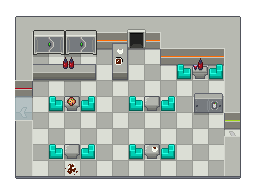
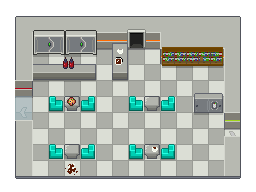
Added updateObjects() method

Changed region(s): [[0.625, 0.2188, 0.875, 0.4375]]

diff --git a/OverworldMap.js b/OverworldMap.js
@@ -147,7 +147,6 @@ window.OverworldMaps = {
         direction: "down",
         src: "/images/characters/people/gameObjects.png",
         shadowImg: "images/characters/noshadow.png",
-        hide: true,
         talking: [
           {
             required: ["Q7_INTRO"],
@@ -182,7 +181,6 @@ window.OverworldMaps = {
         direction: "right",
         src: "/images/characters/people/gameObjects.png",
         shadowImg: "images/characters/noshadow.png",
-        hide: false,
         talking: [
           {
             required: ["Q7_INTRO"],
@@ -197,41 +195,7 @@ window.OverworldMaps = {
             ]
           }
         ]
-      },
-      testNPC: {
-        type: "Person",
-        x: utils.withGrid(8),
-        y: utils.withGrid(4),
-        direction: "down",
-        src: "/images/characters/people/npc8.png",
-        shadowImg: "images/characters/shadow.png",
-        talking: [
-          {
-            events: [
-              { type: "textMessage", name: "Test", text: "This is a test."},
-              { 
-                type: "updateObject", 
-                update: {
-                  id: "controlsRight",
-                  spriteSrc: "/images/characters/people/npc8.png",
-                }
-              },
-              /*Aufgabe-7:
-
-              { type: "openModal", fileRef: "questionModal", modalRef: "q7"},
-              Graph interpolieren --> Punkte sind gegeben, muss zusätzlich einige Eigenschaften aufweisen!
-
-              On complete:
-
-              Berg entfernen? 
-              Set-Timer -3min
-              Dismount spirte
-              { type: "textMessage", name: this.playerName, text: "Oh nein, das war der falsche Berg!" },
-              */
-            ]
-          }
-        ]
-      },
+      }
     },
     cutsceneSpaces: {
       [utils.asGridCoord(6,10)]: [{

diff --git a/ui/QuestionModals.js b/ui/QuestionModals.js
@@ -47,12 +47,26 @@ class QuestionModals {
         </div>
       `)
     }
-
     
-    
-
     //Question 2
     else if (this.modalRef === "q2") {
+      /*this.mapElement = document.createElement('div');
+      this.mapElement.classList.add('Modal');
+      this.mapElement.setAttribute('id', 'map-modal')
+      this.mapElement.innerHTML = (`
+        <div class="ModalHeader">
+          <div class="Title">
+            Map Modal
+          </div>
+        </div>
+        <div class="ModalContent">
+          <img src=${this.minimapSrc}>
+        </div>
+      `);*/
+    }
+
+    //Question 3
+    else if (this.modalRef === "q3") {
       /*this.mapElement = document.createElement('div');
       this.mapElement.classList.add('Modal');
       this.mapElement.setAttribute('id', 'map-modal')
